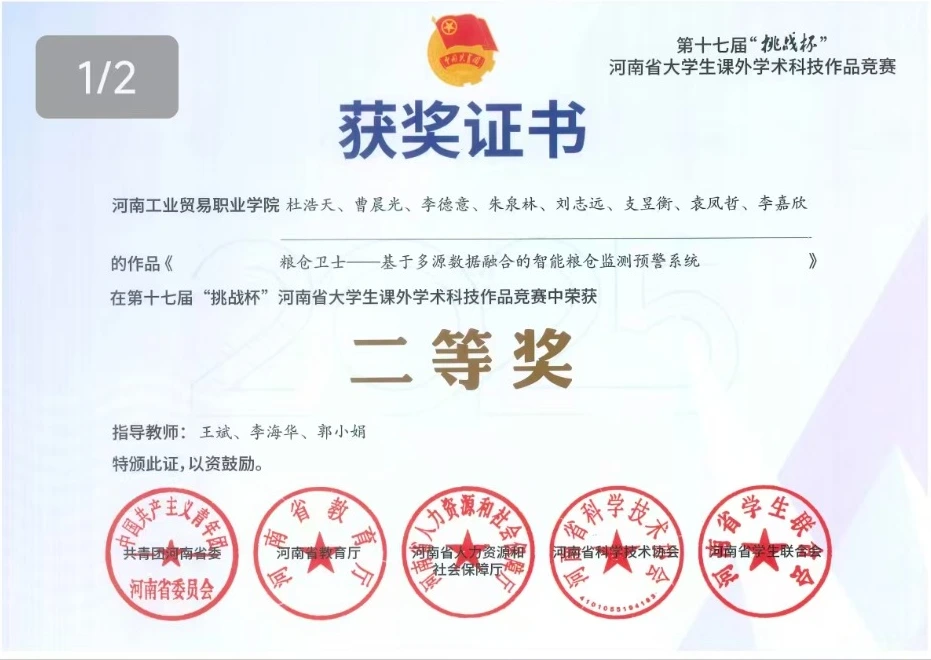
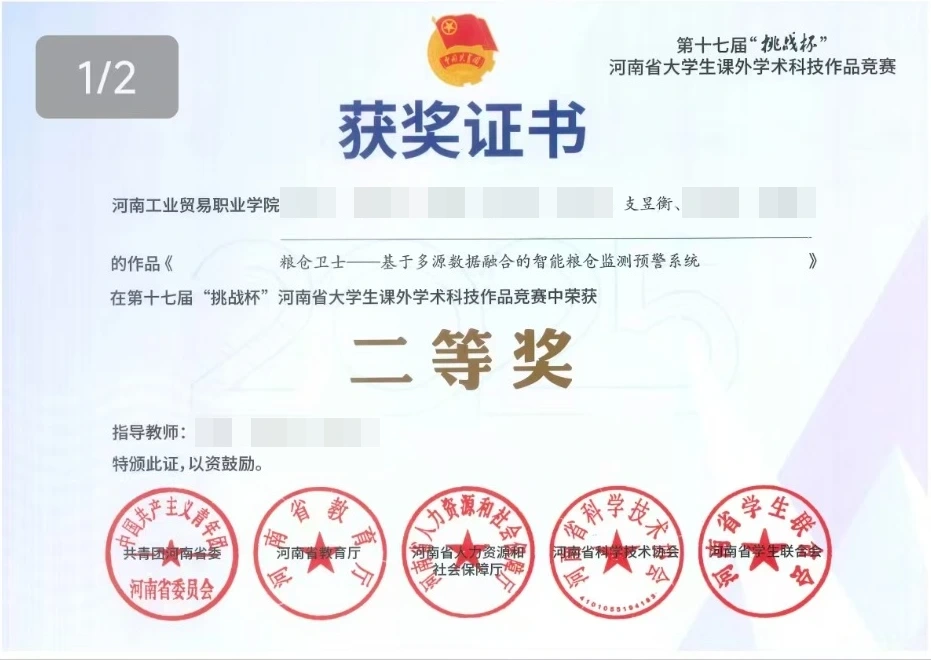
Fix portrait proportions, redact certificate names and clarify design contributions

diff --git a/site-patch/index.html b/site-patch/index.html
@@ -50,7 +50,13 @@
 .profile-tools{font-size:13px!important;margin-top:25px;color:#777!important}
 .honors-section{border-top:1px solid #dedcd6}.honors-head{display:flex;justify-content:space-between;align-items:start;gap:40px}.honors-head h2{margin-bottom:12px}.honors-intro{max-width:530px;margin:18px 0 40px}.honors-grid{display:grid;grid-template-columns:repeat(3,minmax(0,1fr));gap:26px;margin-top:20px}.honor-card{min-width:0;border-top:1px solid #ceccc5;padding-top:22px}.honor-meta{display:flex;justify-content:space-between;align-items:center;font-size:12px;color:#787480}.honor-level{color:#625998;background:#eeebf5;padding:6px 10px;border-radius:30px}.honor-card h3{font-size:18px;line-height:1.7;font-weight:500;min-height:92px;margin:20px 0 12px}.honor-prize{font-size:32px;font-weight:500;margin:0 0 8px}.honor-role{color:#78777d;font-size:12px;line-height:1.8}.certificate-link{display:block;background:#eae8e3;padding:14px;margin-top:25px;border-radius:8px}.certificate-link img{display:block;width:100%;height:190px;object-fit:contain}.certificate-link span{display:block;font-size:11px;color:#777;margin-top:12px;text-align:right}.honors-note{font-size:12px;color:#83818a;margin:28px 0 0;line-height:1.9}.closing-section{border-top:1px solid #dedcd6;display:grid;grid-template-columns:1fr 1.2fr;gap:7%}.closing-copy p{margin:0 0 20px}.award-dialog{width:min(1100px,95vw);max-width:1100px;max-height:92vh;padding:20px;overflow:auto}.award-dialog form{display:flex;justify-content:flex-end;position:sticky;top:0}.award-dialog button{float:none;background:#fff;padding:10px 18px}.award-dialog img{width:100%;height:auto;display:block;margin-top:15px}.award-dialog p{font-size:13px;margin-bottom:0}
 @media(max-width:760px){.profile-section,.honors-section,.closing-section{padding:55px 6%}.profile-section{grid-template-columns:1fr;gap:35px}.profile-photo{max-width:280px}.profile-copy p,.honors-intro,.closing-copy{font-size:14px;line-height:1.95}.honors-head{display:block}.honors-grid{grid-template-columns:1fr;gap:35px}.honor-card h3{min-height:0;font-size:18px}.certificate-link img{height:210px}.closing-section{grid-template-columns:1fr;gap:12px}.profile-facts{gap:25px}.profile-facts strong{font-size:22px}}
-</style></head><body><header><a class="brand" href="#">支<span>独立视觉创作者 / PORTFOLIO</span></a><nav><a href="#work">作品</a><a href="#skills">技能</a><a href="#about">关于</a><a href="#contact">联系 ↗</a></nav></header><main><div class="atmosphere" aria-hidden="true"><i></i><i></i><i></i><div class="light-ribbon ribbon-one"></div><div class="light-ribbon ribbon-two"></div><div class="light-ribbon ribbon-three"></div></div><section class="hero"><div class="hero-icon"><svg viewBox="0 0 80 80" role="img" aria-label="支昱衡个人标识"><defs><linearGradient id="zhi-gradient" x1="0" y1="0" x2="1" y2="1"><stop stop-color="#45466f"/><stop offset=".6" stop-color="#6666a1"/><stop offset="1" stop-color="#8580bb"/></linearGradient></defs><g fill="none" stroke="url(#zhi-gradient)" stroke-width="4.2" stroke-linecap="round" stroke-linejoin="round"><path d="M23 25H57M40 15V37M25 39H55C50 50 38 61 24 66M27 45C33 53 44 61 56 66"/></g></svg></div><h1>让创意流动，让想法成形。</h1><p>我是支昱衡，一名平面设计师与新媒体创作者。<br>从视觉、内容到影像，把灵感变成看得见的表达。</p><a href="#work" class="pill">探索我的作品 ↓</a><div class="hero-disciplines"><span>VISUAL DESIGN</span><span>CONTENT CREATION</span><span>MOTION & AI</span></div></section><section class="section" id="work"><div class="showcase"><div class="window-bar"><div class="traffic"><i></i><i></i><i></i></div><span>支 · 创作工作台</span><span>＋</span></div><div class="workspace"><aside><b>我的作品集 <span>⌄</span></b><div class="aside-label">PROJECTS / 项目</div><a href="#work" data-side="all" class="selected">▦ &nbsp; 全部作品</a><a href="#work" data-side="brand">◈ &nbsp; 品牌视觉</a><a href="#work" data-side="visual">▧ &nbsp; 平面设计</a><a href="#work" data-side="social">▤ &nbsp; 新媒体视觉</a><a href="#work" data-side="ai">✳ &nbsp; AI 创作</a><div class="aside-bottom">从一个想法开始。<br><span>Make ideas visible.</span></div></aside><div class="workspace-main"><div class="section-head"><div><span class="eyebrow">SELECTED WORKS</span><h2>创意，在这里发生。</h2></div><div class="filters" aria-label="作品分类"><button class="active" data-filter="all" aria-pressed="true">全部</button><button data-filter="brand" aria-pressed="false">品牌视觉</button><button data-filter="visual" aria-pressed="false">平面设计</button><button data-filter="social" aria-pressed="false">新媒体</button><button data-filter="ai" aria-pressed="false">AI 创作</button></div></div><p class="project-count" id="project-count" aria-live="polite">9 个项目 · 21 张精选作品</p><div class="grid"><article class="project real-project" tabindex="0" role="button" aria-haspopup="dialog" aria-label="查看戎耀三秦 · 退役军人就业服务活动" data-project="rongyao-xian-2025" data-tags="visual"><div class="art real-cover" style="--cover-bg:#e8f2ff"><picture><source media="(max-width:600px)" srcset="assets/works/work-21-venue.webp"><img src="assets/works/work-21-cover.webp" alt="戎耀三秦 · 陕西省2025年退役军人就业服务活动主视觉与现场落地" loading="eager" width="1440" height="1080"></picture><span class="image-count">5 张作品</span></div><div class="info"><div><h3>戎耀三秦 · 退役军人就业服务活动</h3><span>省级项目 / 活动视觉</span></div><span class="arrow" aria-hidden="true">↗</span></div></article><article class="project real-project" tabindex="0" role="button" aria-haspopup="dialog" aria-label="查看酒掌门 · 标志与名片视觉" data-project="jiuzhangmen" data-tags="brand visual"><div class="art real-cover " style="--cover-bg:#f2eeee"><img src="assets/works/work-01.png" alt="酒掌门 · 标志与名片视觉 · 标志、色彩与名片应用展示" loading="eager" width="1491" height="1055"><span class="image-count">1 张作品</span></div><div class="info"><div><h3>酒掌门 · 标志与名片视觉</h3><span>品牌视觉</span></div><span class="arrow" aria-hidden="true">↗</span></div></article><article class="project real-project" tabindex="0" role="button" aria-haspopup="dialog" aria-label="查看星橙里 · 秋日公众号视觉" data-project="xingchengli" data-tags="social visual"><div class="art real-cover " style="--cover-bg:#fff0cf"><img src="assets/works/work-04.png" alt="星橙里 · 秋日公众号视觉 · 公众号视觉与移动端样机" loading="eager" width="1239" height="1270"><span class="image-count">2 张作品</span></div><div class="info"><div><h3>星橙里 · 秋日公众号视觉</h3><span>新媒体视觉</span></div><span class="arrow" aria-hidden="true">↗</span></div></article><article class="project real-project" tabindex="0" role="button" aria-haspopup="dialog" aria-label="查看萌宠盒子 · 内容与招聘视觉" data-project="petbox" data-tags="social visual"><div class="art real-cover " style="--cover-bg:#f6eedf"><img src="assets/works/work-12.jpg" alt="萌宠盒子 · 内容与招聘视觉 · 宠物主题招聘海报" loading="lazy" width="1536" height="2048"><span class="image-count">3 张作品</span></div><div class="info"><div><h3>萌宠盒子 · 内容与招聘视觉</h3><span>新媒体 / 平面设计</span></div><span class="arrow" aria-hidden="true">↗</span></div></article><article class="project real-project" tabindex="0" role="button" aria-haspopup="dialog" aria-label="查看行知轩 · 教育招生系列" data-project="xingzhixuan" data-tags="visual"><div class="art real-cover " style="--cover-bg:#e5eff9"><img src="assets/works/work-08.png" alt="行知轩 · 教育招生系列 · 中学生托管主题海报" loading="lazy" width="1054" height="1492"><span class="image-count">3 张作品</span></div><div class="info"><div><h3>行知轩 · 教育招生系列</h3><span>平面设计</span></div><span class="arrow" aria-hidden="true">↗</span></div></article><article class="project real-project" tabindex="0" role="button" aria-haspopup="dialog" aria-label="查看行知轩 · 儿童体能宣传" data-project="fitness" data-tags="visual"><div class="art real-cover " style="--cover-bg:#e9e8df"><img src="assets/works/work-17.png" alt="行知轩 · 儿童体能宣传 · 双海报场景应用展示" loading="lazy" width="1448" height="1086"><span class="image-count">2 张作品</span></div><div class="info"><div><h3>行知轩 · 儿童体能宣传</h3><span>平面设计 / 应用展示</span></div><span class="arrow" aria-hidden="true">↗</span></div></article><article class="project real-project" tabindex="0" role="button" aria-haspopup="dialog" aria-label="查看伊丽莎白 · 35 周年店庆" data-project="anniversary" data-tags="visual"><div class="art real-cover " style="--cover-bg:#fde3ef"><img src="assets/works/work-07.jpg" alt="伊丽莎白 · 35 周年店庆 · 35 周年店庆主视觉" loading="lazy" width="1447" height="2048"><span class="image-count">2 张作品</span></div><div class="info"><div><h3>伊丽莎白 · 35 周年店庆</h3><span>平面设计 / 活动视觉</span></div><span class="arrow" aria-hidden="true">↗</span></div></article><article class="project real-project" tabindex="0" role="button" aria-haspopup="dialog" aria-label="查看蜀渝里 · 新店倒计时" data-project="restaurant" data-tags="visual"><div class="art real-cover cover-pair" style="--cover-bg:#28231f"><img src="assets/works/work-11.jpg" alt="蜀渝里 · 新店倒计时 · 开业倒计时 · 2 天" loading="lazy" width="1264" height="2048"><img src="assets/works/work-16.jpg" alt="蜀渝里 · 新店倒计时 · 开业倒计时 · 1 天" loading="lazy" width="1264" height="2048"><span class="image-count">2 张作品</span></div><div class="info"><div><h3>蜀渝里 · 新店倒计时</h3><span>平面设计 / 系列海报</span></div><span class="arrow" aria-hidden="true">↗</span></div></article><article class="project real-project" tabindex="0" role="button" aria-haspopup="dialog" aria-label="查看吾人设计 · 绿色家装宣传" data-project="interior" data-tags="visual"><div class="art real-cover " style="--cover-bg:#e5eee3"><img src="assets/works/work-13.jpg" alt="吾人设计 · 绿色家装宣传 · 绿色家装主题海报" loading="lazy" width="1447" height="2048"><span class="image-count">1 张作品</span></div><div class="info"><div><h3>吾人设计 · 绿色家装宣传</h3><span>平面设计</span></div><span class="arrow" aria-hidden="true">↗</span></div></article></div><div class="ai-empty" id="ai-empty" hidden><span class="app-icon spark software"><img src="assets/chatgpt.svg" alt="" width="35" height="35"></span><h3>AI 创作，持续探索中。</h3><p>本批作品尚未提供 AI 使用方式与制作流程，<br>具体 AI 创作案例待补充。</p><button class="pill" data-show-all>查看已有作品 ↗</button></div><p class="note">以视觉表达想法，用设计连接内容与品牌。</p></div></div></div></section><section class="tool-section" id="skills"><div class="tools"><div><span class="app-icon ps">Ps</span><small>Photoshop</small></div><div><span class="app-icon ai">Ai</span><small>Illustrator</small></div><div><span class="app-icon cdr software"><img src="assets/coreldraw.ico" alt="CorelDRAW 软件图标" width="47" height="47"></span><small>CorelDRAW</small></div><div><span class="app-icon blender software"><img src="assets/blender.svg" alt="Blender 图标" width="35" height="35"></span><small>Blender / 3D</small></div><div><span class="app-icon video software"><img src="assets/jianying.ico" alt="剪映软件图标" width="47" height="47"></span><small>剪映</small></div><div><span class="app-icon spark software"><img src="assets/chatgpt.svg" alt="ChatGPT 图标" width="35" height="35"></span><small>ChatGPT / AI</small></div></div><div class="tool-intro"><span class="eyebrow">TOOLS FOR IDEAS</span><h2>不同的工具，同一种创造力。</h2><p>从平面排版、内容运营，到建模、剪辑与 AI 创作。<br>让每个想法，都找到适合自己的表达方式。</p><a class="pill" href="#about">了解我的创作方式 ↗</a></div><div class="skill-cards"><article><div class="skill-art"><span class="app-icon ps">Ps</span><div class="mini-layer">画面 / 色彩 / 质感</div></div><h3>平面视觉</h3><p>用版式与色彩，建立清晰的视觉表达。</p></article><article><div class="skill-art"><span class="app-icon xiaohongshu software"><img src="assets/xiaohongshu.svg" alt="小红书图标" width="44" height="44"></span><div class="mini-layer">视觉 / 内容 / 传播</div></div><h3>新媒体内容</h3><p>将设计与运营结合，让内容更易被看见。</p></article><article><div class="skill-art"><span class="app-icon video software"><img src="assets/jianying.ico" alt="剪映软件图标" width="47" height="47"></span><div class="mini-layer">空间 / 节奏 / 叙事</div></div><h3>影像与建模</h3><p>以空间和时间，延伸画面的表现力。</p></article><article><div class="skill-art"><span class="app-icon spark software"><img src="assets/chatgpt.svg" alt="ChatGPT 图标" width="35" height="35"></span><div class="mini-layer">灵感 / 实验 / 可能</div></div><h3>AI 创作探索</h3><p>持续学习新工具，具体案例与流程待补充。</p></article></div></section><section class="profile-section" id="about" aria-labelledby="about-title"><figure class="profile-photo"><img src="assets/about/portrait.webp" alt="支昱衡个人肖像" width="900" height="1200" loading="lazy"><figcaption>支昱衡 / ZHI YUHENG</figcaption></figure><div class="profile-copy"><span class="eyebrow">02 — ABOUT ME</span><h2 id="about-title">用设计，让信息有序表达。</h2><p>你好，我是支昱衡，一名平面设计师与新媒体创作者，拥有两年相关设计经验。设计实践涵盖活动物料、教育宣传、商业海报、电商视觉、宣传册与折页，以及微信公众号图文排版。</p><p>曾以外聘设计师身份参与陕西省2025年退役军人人力资源交流活动，完成活动视觉相关设计，作品应用于真实会场。从主视觉到不同尺寸的物料延展，我重视画面的统一，也关注设计在现场的实际呈现。</p><p>在教育与商业项目中，我根据受众和传播场景梳理内容，通过字体、色彩与图文层级突出重点，让画面兼顾美感与阅读效率。同时结合建模、视频剪辑与 AI 辅助工具，持续拓展视觉表达的方式。</p><div class="profile-facts"><div><strong>2 年</strong><span>设计相关经验</span></div><div><strong>设计 → 落地</strong><span>活动项目实践</span></div><div><strong>3 项</strong><span>省级竞赛二等奖 · 团队获奖</span></div></div><p class="profile-tools">Photoshop / Illustrator / CorelDRAW<br>视频剪辑 · 建模 · AI 辅助创作</p></div></section><section class="honors-section" id="awards" aria-labelledby="honors-title"><div class="honors-head"><div><span class="eyebrow">03 — AWARDS &amp; RECOGNITION</span><h2 id="honors-title">荣誉与竞赛经历</h2></div><p class="honors-intro">在实践中探索，在协作中成长。<br>作为团队成员参与创新与科技竞赛，获得三项省级二等奖，在项目实践中积累沟通、协作与成果表达经验。</p></div><div class="honors-grid"><article class="honor-card"><div class="honor-meta"><span>2025</span><span class="honor-level">省级奖项</span></div><h3>第十七届“挑战杯”河南省大学生课外学术科技作品竞赛</h3><p class="honor-prize">二等奖</p><p class="honor-role">团队成员 · 团队获奖<br>参赛项目：粮仓卫士——基于多源数据融合的智能粮仓监测预警系统</p><a class="certificate-link" href="assets/about/challenge-2025.webp" data-award-title="第十七届“挑战杯”河南省大学生课外学术科技作品竞赛 · 二等奖" aria-label="查看2025年第十七届“挑战杯”河南省大学生课外学术科技作品竞赛获奖证书"><img src="assets/about/challenge-2025.webp" alt="第十七届“挑战杯”河南省大学生课外学术科技作品竞赛二等奖证书，团队成员含支昱衡" loading="lazy"><span>查看获奖证书 ↗</span></a></article><article class="honor-card"><div class="honor-meta"><span>2025</span><span class="honor-level">省级奖项</span></div><h3>中国国际大学生创新大赛（2025）河南赛区选拔赛</h3><p class="honor-prize">二等奖</p><p class="honor-role">团队成员 · 团队获奖<br>参赛项目：粮安智盾——基于多源信息的粮仓粮情智能监测预警系统</p><a class="certificate-link" href="assets/about/innovation-2025.webp" data-award-title="中国国际大学生创新大赛（2025）河南赛区选拔赛 · 二等奖" aria-label="查看2025年中国国际大学生创新大赛（2025）河南赛区选拔赛获奖证书"><img src="assets/about/innovation-2025.webp" alt="中国国际大学生创新大赛（2025）河南赛区选拔赛二等奖证书，团队成员含支昱衡" loading="lazy"><span>查看获奖证书 ↗</span></a></article><article class="honor-card"><div class="honor-meta"><span>2024</span><span class="honor-level">省级奖项</span></div><h3>河南省大学生创新大赛暨中国国际大学生创新大赛河南赛区选拔赛</h3><p class="honor-prize">二等奖</p><p class="honor-role">团队成员 · 团队获奖<br>参赛项目：粮仓“数”卫——基于物联网技术的粮仓环境智能监测预警系统</p><a class="certificate-link" href="assets/about/innovation-2024.webp" data-award-title="河南省大学生创新大赛暨中国国际大学生创新大赛河南赛区选拔赛 · 二等奖" aria-label="查看2024年河南省大学生创新大赛暨中国国际大学生创新大赛河南赛区选拔赛获奖证书"><img src="assets/about/innovation-2024.webp" alt="河南省大学生创新大赛暨中国国际大学生创新大赛河南赛区选拔赛二等奖证书，团队成员含支昱衡" loading="lazy"><span>查看获奖证书 ↗</span></a></article></div><p class="honors-note">以上为省级赛事精选荣誉，均以证书所载赛区与等级为准。</p></section><section class="closing-section" aria-labelledby="closing-title"><div><span class="eyebrow">04 — KEEP CREATING</span><h2 id="closing-title">让每一次实践，<br>成为下一次创作的积累。</h2></div><div class="closing-copy"><p>从创新竞赛到商业设计，从平面表达到活动现场，我持续学习如何理解需求、梳理信息，并将想法转化为具体成果。两年的设计与新媒体视觉实践，让我逐步形成兼顾画面美感、阅读效率与实际应用的工作方式。</p><p>未来，我希望继续深耕平面设计与新媒体视觉，结合建模、影像与 AI 辅助工具，完成更成熟、更有辨识度的作品。期待加入重视设计与内容的团队，在真实项目中持续成长。</p></div></section><section class="contact" id="contact"><span class="eyebrow">05 / LET’S CREATE SOMETHING</span><h2>期待与你共创</h2><p>品牌视觉 · 新媒体内容 · 影像创作</p><p class="contact-details"><a href="tel:18436002821">联系电话：18436002821</a><a href="mailto:3490705865@qq.com">电子邮箱：3490705865@qq.com</a></p><a href="#work">先逛逛我的创作方向 ↗</a></section></main><footer><span>© 2026 支 · 个人作品集</span><a href="#">BACK TO TOP ↑</a></footer><dialog id="detail" aria-labelledby="project-title"><div class="detail-bar"><span>PROJECT / 项目详情</span><button id="close" type="button" aria-label="关闭项目详情">关闭 ×</button></div><div class="detail-content"><div class="eyebrow" id="project-category"></div><h2 id="project-title"></h2><p id="project-intro"></p><div id="project-focus" class="project-focus"></div><p id="project-pending" class="project-pending"></p><div id="project-gallery" class="project-gallery"></div></div></dialog><script>
+/* Explicit intrinsic portrait sizing prevents HTML height from stretching the image. */
+.profile-section .profile-photo{width:100%;max-width:340px;align-self:start;justify-self:start}
+.profile-section .profile-photo img{width:100%;height:auto!important;aspect-ratio:3/4;object-fit:contain;object-position:center;max-height:none;display:block}
+.award-contribution{margin-top:35px;border-top:1px solid #dcdad4;padding-top:28px;max-width:850px}
+.award-contribution h3{font-size:20px;font-weight:500;margin:0 0 15px}.award-contribution p{font-size:15px;line-height:2;color:#65656d}
+@media(max-width:760px){.profile-section .profile-photo{max-width:240px}.award-contribution p{font-size:14px}}
+</style></head><body><header><a class="brand" href="#">支<span>独立视觉创作者 / PORTFOLIO</span></a><nav><a href="#work">作品</a><a href="#skills">技能</a><a href="#about">关于</a><a href="#contact">联系 ↗</a></nav></header><main><div class="atmosphere" aria-hidden="true"><i></i><i></i><i></i><div class="light-ribbon ribbon-one"></div><div class="light-ribbon ribbon-two"></div><div class="light-ribbon ribbon-three"></div></div><section class="hero"><div class="hero-icon"><svg viewBox="0 0 80 80" role="img" aria-label="支昱衡个人标识"><defs><linearGradient id="zhi-gradient" x1="0" y1="0" x2="1" y2="1"><stop stop-color="#45466f"/><stop offset=".6" stop-color="#6666a1"/><stop offset="1" stop-color="#8580bb"/></linearGradient></defs><g fill="none" stroke="url(#zhi-gradient)" stroke-width="4.2" stroke-linecap="round" stroke-linejoin="round"><path d="M23 25H57M40 15V37M25 39H55C50 50 38 61 24 66M27 45C33 53 44 61 56 66"/></g></svg></div><h1>让创意流动，让想法成形。</h1><p>我是支昱衡，一名平面设计师与新媒体创作者。<br>从视觉、内容到影像，把灵感变成看得见的表达。</p><a href="#work" class="pill">探索我的作品 ↓</a><div class="hero-disciplines"><span>VISUAL DESIGN</span><span>CONTENT CREATION</span><span>MOTION & AI</span></div></section><section class="section" id="work"><div class="showcase"><div class="window-bar"><div class="traffic"><i></i><i></i><i></i></div><span>支 · 创作工作台</span><span>＋</span></div><div class="workspace"><aside><b>我的作品集 <span>⌄</span></b><div class="aside-label">PROJECTS / 项目</div><a href="#work" data-side="all" class="selected">▦ &nbsp; 全部作品</a><a href="#work" data-side="brand">◈ &nbsp; 品牌视觉</a><a href="#work" data-side="visual">▧ &nbsp; 平面设计</a><a href="#work" data-side="social">▤ &nbsp; 新媒体视觉</a><a href="#work" data-side="ai">✳ &nbsp; AI 创作</a><div class="aside-bottom">从一个想法开始。<br><span>Make ideas visible.</span></div></aside><div class="workspace-main"><div class="section-head"><div><span class="eyebrow">SELECTED WORKS</span><h2>创意，在这里发生。</h2></div><div class="filters" aria-label="作品分类"><button class="active" data-filter="all" aria-pressed="true">全部</button><button data-filter="brand" aria-pressed="false">品牌视觉</button><button data-filter="visual" aria-pressed="false">平面设计</button><button data-filter="social" aria-pressed="false">新媒体</button><button data-filter="ai" aria-pressed="false">AI 创作</button></div></div><p class="project-count" id="project-count" aria-live="polite">9 个项目 · 21 张精选作品</p><div class="grid"><article class="project real-project" tabindex="0" role="button" aria-haspopup="dialog" aria-label="查看戎耀三秦 · 退役军人就业服务活动" data-project="rongyao-xian-2025" data-tags="visual"><div class="art real-cover" style="--cover-bg:#e8f2ff"><picture><source media="(max-width:600px)" srcset="assets/works/work-21-venue.webp"><img src="assets/works/work-21-cover.webp" alt="戎耀三秦 · 陕西省2025年退役军人就业服务活动主视觉与现场落地" loading="eager" width="1440" height="1080"></picture><span class="image-count">5 张作品</span></div><div class="info"><div><h3>戎耀三秦 · 退役军人就业服务活动</h3><span>省级项目 / 活动视觉</span></div><span class="arrow" aria-hidden="true">↗</span></div></article><article class="project real-project" tabindex="0" role="button" aria-haspopup="dialog" aria-label="查看酒掌门 · 标志与名片视觉" data-project="jiuzhangmen" data-tags="brand visual"><div class="art real-cover " style="--cover-bg:#f2eeee"><img src="assets/works/work-01.png" alt="酒掌门 · 标志与名片视觉 · 标志、色彩与名片应用展示" loading="eager" width="1491" height="1055"><span class="image-count">1 张作品</span></div><div class="info"><div><h3>酒掌门 · 标志与名片视觉</h3><span>品牌视觉</span></div><span class="arrow" aria-hidden="true">↗</span></div></article><article class="project real-project" tabindex="0" role="button" aria-haspopup="dialog" aria-label="查看星橙里 · 秋日公众号视觉" data-project="xingchengli" data-tags="social visual"><div class="art real-cover " style="--cover-bg:#fff0cf"><img src="assets/works/work-04.png" alt="星橙里 · 秋日公众号视觉 · 公众号视觉与移动端样机" loading="eager" width="1239" height="1270"><span class="image-count">2 张作品</span></div><div class="info"><div><h3>星橙里 · 秋日公众号视觉</h3><span>新媒体视觉</span></div><span class="arrow" aria-hidden="true">↗</span></div></article><article class="project real-project" tabindex="0" role="button" aria-haspopup="dialog" aria-label="查看萌宠盒子 · 内容与招聘视觉" data-project="petbox" data-tags="social visual"><div class="art real-cover " style="--cover-bg:#f6eedf"><img src="assets/works/work-12.jpg" alt="萌宠盒子 · 内容与招聘视觉 · 宠物主题招聘海报" loading="lazy" width="1536" height="2048"><span class="image-count">3 张作品</span></div><div class="info"><div><h3>萌宠盒子 · 内容与招聘视觉</h3><span>新媒体 / 平面设计</span></div><span class="arrow" aria-hidden="true">↗</span></div></article><article class="project real-project" tabindex="0" role="button" aria-haspopup="dialog" aria-label="查看行知轩 · 教育招生系列" data-project="xingzhixuan" data-tags="visual"><div class="art real-cover " style="--cover-bg:#e5eff9"><img src="assets/works/work-08.png" alt="行知轩 · 教育招生系列 · 中学生托管主题海报" loading="lazy" width="1054" height="1492"><span class="image-count">3 张作品</span></div><div class="info"><div><h3>行知轩 · 教育招生系列</h3><span>平面设计</span></div><span class="arrow" aria-hidden="true">↗</span></div></article><article class="project real-project" tabindex="0" role="button" aria-haspopup="dialog" aria-label="查看行知轩 · 儿童体能宣传" data-project="fitness" data-tags="visual"><div class="art real-cover " style="--cover-bg:#e9e8df"><img src="assets/works/work-17.png" alt="行知轩 · 儿童体能宣传 · 双海报场景应用展示" loading="lazy" width="1448" height="1086"><span class="image-count">2 张作品</span></div><div class="info"><div><h3>行知轩 · 儿童体能宣传</h3><span>平面设计 / 应用展示</span></div><span class="arrow" aria-hidden="true">↗</span></div></article><article class="project real-project" tabindex="0" role="button" aria-haspopup="dialog" aria-label="查看伊丽莎白 · 35 周年店庆" data-project="anniversary" data-tags="visual"><div class="art real-cover " style="--cover-bg:#fde3ef"><img src="assets/works/work-07.jpg" alt="伊丽莎白 · 35 周年店庆 · 35 周年店庆主视觉" loading="lazy" width="1447" height="2048"><span class="image-count">2 张作品</span></div><div class="info"><div><h3>伊丽莎白 · 35 周年店庆</h3><span>平面设计 / 活动视觉</span></div><span class="arrow" aria-hidden="true">↗</span></div></article><article class="project real-project" tabindex="0" role="button" aria-haspopup="dialog" aria-label="查看蜀渝里 · 新店倒计时" data-project="restaurant" data-tags="visual"><div class="art real-cover cover-pair" style="--cover-bg:#28231f"><img src="assets/works/work-11.jpg" alt="蜀渝里 · 新店倒计时 · 开业倒计时 · 2 天" loading="lazy" width="1264" height="2048"><img src="assets/works/work-16.jpg" alt="蜀渝里 · 新店倒计时 · 开业倒计时 · 1 天" loading="lazy" width="1264" height="2048"><span class="image-count">2 张作品</span></div><div class="info"><div><h3>蜀渝里 · 新店倒计时</h3><span>平面设计 / 系列海报</span></div><span class="arrow" aria-hidden="true">↗</span></div></article><article class="project real-project" tabindex="0" role="button" aria-haspopup="dialog" aria-label="查看吾人设计 · 绿色家装宣传" data-project="interior" data-tags="visual"><div class="art real-cover " style="--cover-bg:#e5eee3"><img src="assets/works/work-13.jpg" alt="吾人设计 · 绿色家装宣传 · 绿色家装主题海报" loading="lazy" width="1447" height="2048"><span class="image-count">1 张作品</span></div><div class="info"><div><h3>吾人设计 · 绿色家装宣传</h3><span>平面设计</span></div><span class="arrow" aria-hidden="true">↗</span></div></article></div><div class="ai-empty" id="ai-empty" hidden><span class="app-icon spark software"><img src="assets/chatgpt.svg" alt="" width="35" height="35"></span><h3>AI 创作，持续探索中。</h3><p>本批作品尚未提供 AI 使用方式与制作流程，<br>具体 AI 创作案例待补充。</p><button class="pill" data-show-all>查看已有作品 ↗</button></div><p class="note">以视觉表达想法，用设计连接内容与品牌。</p></div></div></div></section><section class="tool-section" id="skills"><div class="tools"><div><span class="app-icon ps">Ps</span><small>Photoshop</small></div><div><span class="app-icon ai">Ai</span><small>Illustrator</small></div><div><span class="app-icon cdr software"><img src="assets/coreldraw.ico" alt="CorelDRAW 软件图标" width="47" height="47"></span><small>CorelDRAW</small></div><div><span class="app-icon blender software"><img src="assets/blender.svg" alt="Blender 图标" width="35" height="35"></span><small>Blender / 3D</small></div><div><span class="app-icon video software"><img src="assets/jianying.ico" alt="剪映软件图标" width="47" height="47"></span><small>剪映</small></div><div><span class="app-icon spark software"><img src="assets/chatgpt.svg" alt="ChatGPT 图标" width="35" height="35"></span><small>ChatGPT / AI</small></div></div><div class="tool-intro"><span class="eyebrow">TOOLS FOR IDEAS</span><h2>不同的工具，同一种创造力。</h2><p>从平面排版、内容运营，到建模、剪辑与 AI 创作。<br>让每个想法，都找到适合自己的表达方式。</p><a class="pill" href="#about">了解我的创作方式 ↗</a></div><div class="skill-cards"><article><div class="skill-art"><span class="app-icon ps">Ps</span><div class="mini-layer">画面 / 色彩 / 质感</div></div><h3>平面视觉</h3><p>用版式与色彩，建立清晰的视觉表达。</p></article><article><div class="skill-art"><span class="app-icon xiaohongshu software"><img src="assets/xiaohongshu.svg" alt="小红书图标" width="44" height="44"></span><div class="mini-layer">视觉 / 内容 / 传播</div></div><h3>新媒体内容</h3><p>将设计与运营结合，让内容更易被看见。</p></article><article><div class="skill-art"><span class="app-icon video software"><img src="assets/jianying.ico" alt="剪映软件图标" width="47" height="47"></span><div class="mini-layer">空间 / 节奏 / 叙事</div></div><h3>影像与建模</h3><p>以空间和时间，延伸画面的表现力。</p></article><article><div class="skill-art"><span class="app-icon spark software"><img src="assets/chatgpt.svg" alt="ChatGPT 图标" width="35" height="35"></span><div class="mini-layer">灵感 / 实验 / 可能</div></div><h3>AI 创作探索</h3><p>持续学习新工具，具体案例与流程待补充。</p></article></div></section><section class="profile-section" id="about" aria-labelledby="about-title"><figure class="profile-photo"><img src="assets/about/portrait.webp" alt="支昱衡个人肖像" width="900" height="1200" loading="lazy"><figcaption>支昱衡 / ZHI YUHENG</figcaption></figure><div class="profile-copy"><span class="eyebrow">02 — ABOUT ME</span><h2 id="about-title">用设计，让信息有序表达。</h2><p>你好，我是支昱衡，一名平面设计师与新媒体创作者，拥有两年相关设计经验。设计实践涵盖活动物料、教育宣传、商业海报、电商视觉、宣传册与折页，以及微信公众号图文排版。</p><p>曾以外聘设计师身份参与陕西省2025年退役军人人力资源交流活动，完成活动视觉相关设计，作品应用于真实会场。从主视觉到不同尺寸的物料延展，我重视画面的统一，也关注设计在现场的实际呈现。</p><p>在教育与商业项目中，我根据受众和传播场景梳理内容，通过字体、色彩与图文层级突出重点，让画面兼顾美感与阅读效率。同时结合建模、视频剪辑与 AI 辅助工具，持续拓展视觉表达的方式。</p><div class="profile-facts"><div><strong>2 年</strong><span>设计相关经验</span></div><div><strong>设计 → 落地</strong><span>活动项目实践</span></div><div><strong>3 项</strong><span>省级竞赛二等奖 · 团队获奖</span></div></div><p class="profile-tools">Photoshop / Illustrator / CorelDRAW<br>视频剪辑 · 建模 · AI 辅助创作</p></div></section><section class="honors-section" id="awards" aria-labelledby="honors-title"><div class="honors-head"><div><span class="eyebrow">03 — AWARDS &amp; RECOGNITION</span><h2 id="honors-title">荣誉与竞赛经历</h2></div><p class="honors-intro">在实践中探索，在协作中成长。<br>作为团队成员参与创新与科技竞赛，获得三项省级二等奖，主要负责项目相关的平面设计与视觉美化，配合团队完成项目成果展示。</p></div><div class="honors-grid"><article class="honor-card"><div class="honor-meta"><span>2025</span><span class="honor-level">省级奖项</span></div><h3>第十七届“挑战杯”河南省大学生课外学术科技作品竞赛</h3><p class="honor-prize">二等奖</p><p class="honor-role">团队成员 · 平面设计与视觉美化<br>参赛项目：粮仓卫士——基于多源数据融合的智能粮仓监测预警系统</p><a class="certificate-link" href="assets/about/challenge-2025-private.webp" data-award-title="第十七届“挑战杯”河南省大学生课外学术科技作品竞赛 · 二等奖" aria-label="查看2025年第十七届“挑战杯”河南省大学生课外学术科技作品竞赛获奖证书"><img src="assets/about/challenge-2025-private.webp" alt="第十七届“挑战杯”河南省大学生课外学术科技作品竞赛二等奖证书，团队成员含支昱衡" loading="lazy"><span>查看获奖证书 ↗</span></a></article><article class="honor-card"><div class="honor-meta"><span>2025</span><span class="honor-level">省级奖项</span></div><h3>中国国际大学生创新大赛（2025）河南赛区选拔赛</h3><p class="honor-prize">二等奖</p><p class="honor-role">团队成员 · 平面设计与视觉美化<br>参赛项目：粮安智盾——基于多源信息的粮仓粮情智能监测预警系统</p><a class="certificate-link" href="assets/about/innovation-2025-private.webp" data-award-title="中国国际大学生创新大赛（2025）河南赛区选拔赛 · 二等奖" aria-label="查看2025年中国国际大学生创新大赛（2025）河南赛区选拔赛获奖证书"><img src="assets/about/innovation-2025-private.webp" alt="中国国际大学生创新大赛（2025）河南赛区选拔赛二等奖证书，团队成员含支昱衡" loading="lazy"><span>查看获奖证书 ↗</span></a></article><article class="honor-card"><div class="honor-meta"><span>2024</span><span class="honor-level">省级奖项</span></div><h3>河南省大学生创新大赛暨中国国际大学生创新大赛河南赛区选拔赛</h3><p class="honor-prize">二等奖</p><p class="honor-role">团队成员 · 平面设计与视觉美化<br>参赛项目：粮仓“数”卫——基于物联网技术的粮仓环境智能监测预警系统</p><a class="certificate-link" href="assets/about/innovation-2024-private.webp" data-award-title="河南省大学生创新大赛暨中国国际大学生创新大赛河南赛区选拔赛 · 二等奖" aria-label="查看2024年河南省大学生创新大赛暨中国国际大学生创新大赛河南赛区选拔赛获奖证书"><img src="assets/about/innovation-2024-private.webp" alt="河南省大学生创新大赛暨中国国际大学生创新大赛河南赛区选拔赛二等奖证书，团队成员含支昱衡" loading="lazy"><span>查看获奖证书 ↗</span></a></article></div><div class="award-contribution"><h3>我的职责与收获</h3><p>在上述获奖项目中，我作为团队成员，主要负责项目相关的平面设计与视觉美化工作，通过版式、配色与图文层级的整理，让项目信息表达更清晰、整体呈现更统一，并配合团队完成项目成果展示。</p><p>这些竞赛经历让我积累了团队协作与设计沟通经验，也加深了我对设计作用的理解：从项目内容出发，用清晰的视觉表达帮助观众理解方案的重点与价值。</p></div><p class="honors-note">以上为省级赛事精选荣誉，均以证书所载赛区与等级为准。</p></section><section class="closing-section" aria-labelledby="closing-title"><div><span class="eyebrow">04 — KEEP CREATING</span><h2 id="closing-title">让每一次实践，<br>成为下一次创作的积累。</h2></div><div class="closing-copy"><p>从创新竞赛到商业设计，从平面表达到活动现场，我持续学习如何理解需求、梳理信息，并将想法转化为具体成果。两年的设计与新媒体视觉实践，让我逐步形成兼顾画面美感、阅读效率与实际应用的工作方式。</p><p>未来，我希望继续深耕平面设计与新媒体视觉，结合建模、影像与 AI 辅助工具，完成更成熟、更有辨识度的作品。期待加入重视设计与内容的团队，在真实项目中持续成长。</p></div></section><section class="contact" id="contact"><span class="eyebrow">05 / LET’S CREATE SOMETHING</span><h2>期待与你共创</h2><p>品牌视觉 · 新媒体内容 · 影像创作</p><p class="contact-details"><a href="tel:18436002821">联系电话：18436002821</a><a href="mailto:3490705865@qq.com">电子邮箱：3490705865@qq.com</a></p><a href="#work">先逛逛我的创作方向 ↗</a></section></main><footer><span>© 2026 支 · 个人作品集</span><a href="#">BACK TO TOP ↑</a></footer><dialog id="detail" aria-labelledby="project-title"><div class="detail-bar"><span>PROJECT / 项目详情</span><button id="close" type="button" aria-label="关闭项目详情">关闭 ×</button></div><div class="detail-content"><div class="eyebrow" id="project-category"></div><h2 id="project-title"></h2><p id="project-intro"></p><div id="project-focus" class="project-focus"></div><p id="project-pending" class="project-pending"></p><div id="project-gallery" class="project-gallery"></div></div></dialog><script>
 const projects=[{"id":"rongyao-xian-2025","title":"戎耀三秦 · 退役军人就业服务活动","category":"省级项目 / 活动视觉","tags":["visual"],"bg":"#e8f2ff","intro":"为陕西省 2025 年退役军人人力资源交流活动打造“戎耀三秦·职等你来”主题视觉。从主视觉与延展海报，到会场主屏和入口装置应用，呈现设计从平面创作到现场落地的完整过程。","focus":["活动主视觉","系列宣传海报","现场应用落地"],"assets":[{"src":"assets/works/work-21-identity.webp","width":1454,"height":1100,"caption":"活动主视觉｜戎耀三秦 · 职等你来"},{"src":"assets/works/work-21-stage-visual.webp","width":2048,"height":716,"caption":"会场主屏视觉延展"},{"src":"assets/works/work-21-countdown-clean.webp","width":948,"height":1760,"caption":"活动倒计时海报｜报名二维码已遮除"},{"src":"assets/works/work-21-venue.webp","width":1255,"height":880,"caption":"主会场背景板落地"},{"src":"assets/works/work-21-entry.webp","width":1190,"height":1045,"caption":"活动入口装置现场应用"}],"pending":"项目地点：陕西西安　｜　项目时间：2025 年 4 月　｜　项目内容：视觉设计与现场落地"},{"id":"jiuzhangmen","title":"酒掌门 · 标志与名片视觉","category":"品牌视觉","tags":["brand","visual"],"bg":"#f2eeee","intro":"以红色标志、酒瓶图形与卡通形象建立识别，并延展到名片正反面。展示从标志构成、配色到应用版式的衔接。","focus":["标志设计","品牌配色","名片应用"],"assets":[{"src":"assets/works/work-01.png","width":1491,"height":1055,"caption":"标志、色彩与名片应用展示"}],"pending":"制作时间、具体分工、使用工具与制作流程待补充。"},{"id":"xingchengli","title":"星橙里 · 秋日公众号视觉","category":"新媒体视觉","tags":["social","visual"],"bg":"#fff0cf","intro":"将秋日暖色、建筑与室内图片融入公众号长图。两版排版合并展示，呈现封面、内容分区与移动端阅读节奏。","focus":["公众号排版","主题视觉","内容层级"],"assets":[{"src":"assets/works/work-04.png","width":1239,"height":1270,"caption":"公众号视觉与移动端样机"},{"src":"assets/works/work-05.jpg","width":1996,"height":2048,"caption":"秋日主题长图排版"}],"pending":"制作时间、具体分工、使用工具与制作流程待补充。"},{"id":"petbox","title":"萌宠盒子 · 内容与招聘视觉","category":"新媒体 / 平面设计","tags":["social","visual"],"bg":"#f6eedf","intro":"将宠物招聘、猫咪品种指南与洗护服务内容整理为同品牌作品组，呈现不同传播目的下的视觉与信息组织方式。","focus":["招聘海报","科普长图","服务内容"],"assets":[{"src":"assets/works/work-12.jpg","width":1536,"height":2048,"caption":"宠物主题招聘海报"},{"src":"assets/works/work-20.jpg","width":341,"height":2048,"caption":"猫咪选择指南｜原图宽度 341px，作为内容结构补充"},{"src":"assets/works/work-19.png","width":181,"height":2048,"caption":"洗护服务长图｜原图宽度 181px，作为内容结构补充"}],"pending":"制作时间、具体分工、使用工具与制作流程待补充。"},{"id":"xingzhixuan","title":"行知轩 · 教育招生系列","category":"平面设计","tags":["visual"],"bg":"#e5eff9","intro":"围绕托管、书法与住宿服务展开招生宣传。蓝色插画、书法主题和图文分区分别回应不同课程与服务的信息需求。","focus":["招生海报","字体与插画","服务信息排版"],"assets":[{"src":"assets/works/work-08.png","width":1054,"height":1492,"caption":"中学生托管主题海报"},{"src":"assets/works/work-18.png","width":992,"height":1586,"caption":"少年书法课程海报"},{"src":"assets/works/work-10.png","width":1054,"height":1492,"caption":"住宿服务介绍海报"}],"pending":"制作时间、具体分工、使用工具与制作流程待补充。"},{"id":"fitness","title":"行知轩 · 儿童体能宣传","category":"平面设计 / 应用展示","tags":["visual"],"bg":"#e9e8df","intro":"以青绿与黄色建立运动主题识别，通过标签、分栏和清单梳理较密集的课程信息，并用双海报样机呈现应用效果。","focus":["信息设计","系列配色","场景应用"],"assets":[{"src":"assets/works/work-17.png","width":1448,"height":1086,"caption":"双海报场景应用展示"},{"src":"assets/works/work-06.png","width":1054,"height":1492,"caption":"儿童体能宣传单幅设计"}],"pending":"制作时间、具体分工、使用工具与制作流程待补充。"},{"id":"anniversary","title":"伊丽莎白 · 35 周年店庆","category":"平面设计 / 活动视觉","tags":["visual"],"bg":"#fde3ef","intro":"以粉色庆典视觉统一主海报与套餐宣传页，通过大字号数字、摄影元素和分区排版，区分周年主题与活动信息。","focus":["活动主视觉","数字字体表现","套餐信息排版"],"assets":[{"src":"assets/works/work-07.jpg","width":1447,"height":2048,"caption":"35 周年店庆主视觉"},{"src":"assets/works/work-15.jpg","width":1449,"height":2048,"caption":"同系列福利套餐海报"}],"pending":"制作时间、具体分工、使用工具与制作流程待补充。"},{"id":"restaurant","title":"蜀渝里 · 新店倒计时","category":"平面设计 / 系列海报","tags":["visual"],"bg":"#28231f","intro":"以深色场景、菜品图片与红色立体数字构建开业倒计时。两张同系列作品合并展示，突出数字焦点与统一的画面节奏。","focus":["商业合成","倒计时系列","对比与层次"],"assets":[{"src":"assets/works/work-11.jpg","width":1264,"height":2048,"caption":"开业倒计时 · 2 天"},{"src":"assets/works/work-16.jpg","width":1264,"height":2048,"caption":"开业倒计时 · 1 天"}],"pending":"制作时间、具体分工、使用工具与制作流程待补充。"},{"id":"interior","title":"吾人设计 · 绿色家装宣传","category":"平面设计","tags":["visual"],"bg":"#e5eee3","intro":"以浅绿色、植物元素、拱形空间图片和家具画面建立家装主题氛围，呈现清新配色与空间类商业海报的视觉组织。","focus":["商业海报","空间图像合成","色彩氛围"],"assets":[{"src":"assets/works/work-13.jpg","width":1447,"height":2048,"caption":"绿色家装主题海报"}],"pending":"制作时间、具体分工、使用工具与制作流程待补充。"}];
 const cards=[...document.querySelectorAll('[data-project]')];
 const filterButtons=[...document.querySelectorAll('[data-filter]')];
